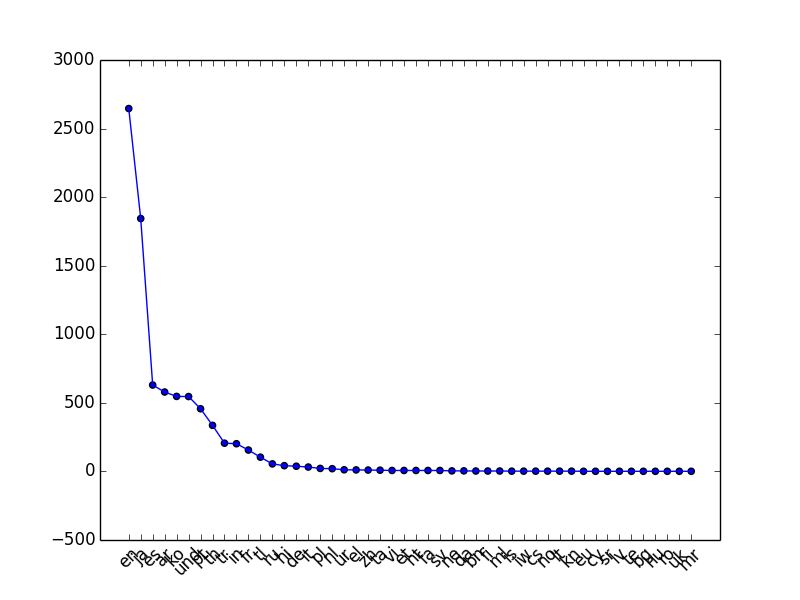
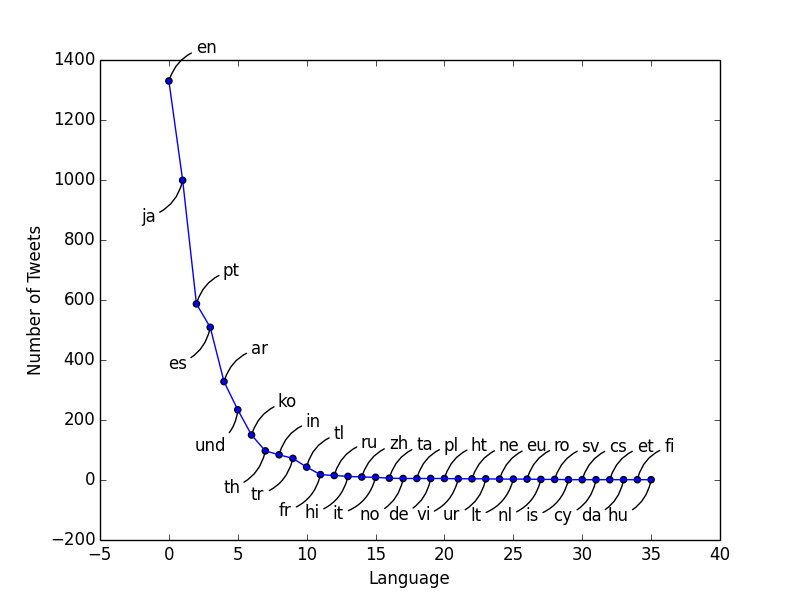
Added annotations and axis labels

diff --git a/lang_analyze.py b/lang_analyze.py
@@ -51,9 +51,19 @@ class TwitterLangMix:
         lang_list = sorted(self.lang_dict, key = self.lang_dict.get, reverse = True)
         count_list = sorted(self.lang_dict.values(), reverse = True)
         lang_range = range(len(lang_list))
-        matplot.xticks(lang_range, lang_list, rotation=45)
+        #matplot.xticks(lang_range, [''] * len(lang_list), rotation=45)
+        matplot.ylabel('Number of Tweets')
+        matplot.xlabel('Language')
         matplot.scatter(lang_range, count_list)
         matplot.plot(lang_range, count_list)
+        alternator = 1
+        for text, xcoord, ycoord in zip(lang_list, lang_range, count_list):
+            factor = 1
+            if alternator % 2 == 0:
+                factor = -1.5
+            matplot.annotate(text, xy = (xcoord, ycoord), xytext = (factor * 20, factor * 20), textcoords = 'offset points', \
+                    arrowprops = dict(arrowstyle = '-', connectionstyle='arc3,rad=0.3'))
+            alternator += 1
         matplot.savefig("LanguageDistribution.png")
 
     def calculate_language_percentage(self, lang_dict):
